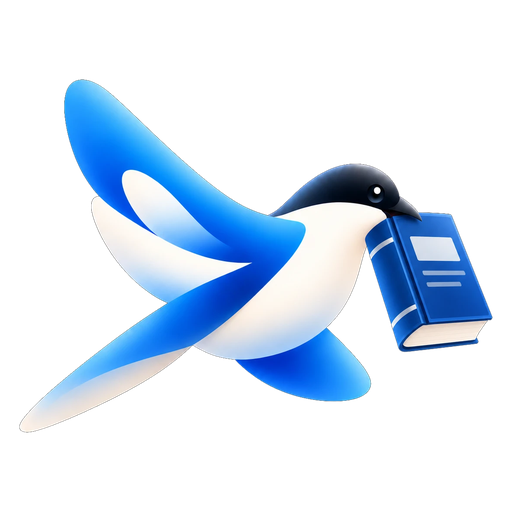
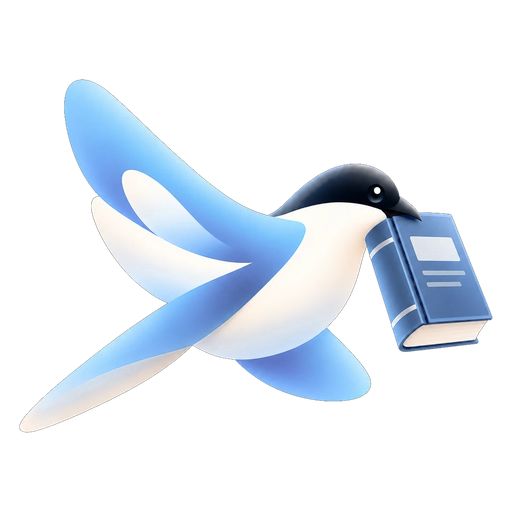
brand: 마크 파랑을 실제 물까치 색으로 낮춘다 (+ 보정 스크립트)
마크 날개가 전기 파랑에 가까웠다. 브랜드가 사용자의 물까치(Cyanopica cyanus)
사진에서 뽑아 둔 값은 하늘색 날개 #7ba9db · 짙은 날개 #5b96d4 인데, 정작
마크만 거기서 벗어나 있었다 — 게다가 지오글 것만 예전에 한 번 0.76배로
낮춰 둬서(채도 0.62) **같은 새인데 사이트마다 파랑이 달랐다**(0.62 / 0.83 / 0.87).

`scripts/brand/recolor-magpie.py` 로 셋을 **같은 목표 채도(0.46)**에 맞춘다.
예전에는 손으로 한 번씩 해서 위처럼 갈렸으므로 스크립트로 남긴다 —
한 번 돌리고 결과를 커밋하는 방식이다(scripts/kice/* 와 같다).

- 배율을 고정하지 않고 **파일마다 중앙값을 보고 푼다.** 이미 한 번 보정된
  파일과 원본 그대로인 파일이 같은 자리에 도착해야 한다.
- 색상(hue)은 안 건드린다 — 208~215° 가 이미 사진의 210° 와 맞다.
- **어두운 파랑은 건드리지 않는다**(밝기 0.30 아래). 브랜드 바탕색 #14171c 가
  살짝 파랑이라, 밝기를 안 보면 og.jpg 는 "파랑" 픽셀의 97.7%가 배경(밝기
  0.11)이고 날개는 1.5% 뿐이라 **배경이 배율을 정해 버린다.**
- 색상·밝기 경계는 부드럽게 가른다(딱 자르면 날개와 크림색 가슴 사이에 띠).
- **지구본은 빼고 보정한다** — 바다 파랑이 날개와 겹쳐 그대로 두면 바랜다.
- **작은 판은 512 에서 줄여 만든다.** 192·64 로 줄면 지구본의 초록이
  안티에일리어싱에 묻혀 안 찾혀서 그 파일만 지구본이 바랜다(실제로 512 는
  초록 107px 로 찾고 192·64 는 못 찾았다).

대상은 네 갈래 전부다 — 맨몸(브랜드) · 지구본(지오글) · 종이(리프린트OCR) ·
책(VDIC), 그리고 brand-site 의 webp·og.jpg 까지. 종이 마크는 #298ef0 →
#82bcf0. 바닥 브랜드 마크(nepica-64.png)는 세 저장소에서 다시 바이트까지
같다(2,078B · sha 79c5067914990d11).

공개 자산만 바뀌어 코드 변경은 없다(빌드에 영향 없음).

Claude-Session: https://claude.ai/code/session_01C5hwXkP7FNVyWqAUhqie3H

diff --git a/scripts/brand/recolor-magpie.py b/scripts/brand/recolor-magpie.py
@@ -1,0 +1,173 @@
+#!/usr/bin/env python3
+"""물까치 마크의 날개 파랑을 실제 물까치(Cyanopica cyanus) 색으로 낮춘다.
+
+**왜 필요한가.** 마크 원본의 날개가 전기 파랑에 가까웠다(대표색 #1878ec~#2b97f3,
+채도 0.69~0.77). 실제 물까치 날개는 **연하고 탁한 하늘색**이고, 이 저장소가
+사용자가 준 물까치 사진에서 뽑아 둔 값도 그렇다 — 하늘색 날개 #7ba9db ·
+짙은 날개 #5b96d4(css/main.css 의 팔레트 주석). 마크만 그 값에서 벗어나 있었다.
+
+**세 저장소에 흩어진 마크를 한 번에 맞추려고 스크립트로 남긴다.** 예전에는 손으로
+한 번씩 보정해서 지오글 것만 0.76배가 걸리고 나머지는 원본 그대로였다 — 그래서
+같은 새인데 사이트마다 파랑이 달랐다. 한 번 돌리고 결과를 커밋한다.
+
+**보정 방법**
+
+- HSV 로 바꿔 **파랑 계열 픽셀의 채도만** 배율로 낮춘다. 색상(hue)은 안 건드린다 —
+  지금 값(208~215°)이 이미 사진의 210° 와 맞다.
+- 배율은 파일마다 **중앙값을 보고 푼다**(TARGET_S / 지금 중앙 채도). 그래야 이미
+  한 번 보정된 파일과 원본 그대로인 파일이 **같은 자리에 도착한다** — 고정 배율을
+  쓰면 출발점이 다른 만큼 결과도 갈린다.
+- 색상 경계는 **부드럽게 가른다**(HUE_FEATHER). 딱 잘라내면 날개와 크림색 가슴이
+  만나는 자리에 띠가 생긴다.
+- **가장 어두운 파랑만 아주 조금 띄운다**(채도를 내리면 탁해 보이는 것을 막는다).
+- 알파는 한 픽셀도 안 건드린다.
+
+**부리에 문 지구본은 빼고 보정한다.** 바다의 파랑이 날개와 색상대가 겹쳐서 그대로
+두면 지구본까지 바랜다. 초록(대륙) 픽셀이 모인 자리를 지구본으로 보고 그 둘레를
+제외한다 — 지구본이 작을 수 있어 반지름의 1.6배로 넉넉히 잡는다.
+
+    python3 scripts/brand/recolor-magpie.py <파일…> [--globe] [--dry]
+"""
+import sys, math
+from PIL import Image
+import numpy as np
+
+TARGET_S = 0.46      # 사진 팔레트 #7ba9db(0.438)~#5b96d4(0.571) 사이, 연한 쪽에 붙인다
+HUE_LO, HUE_HI = 0.50, 0.72
+HUE_FEATHER = 0.04
+LIFT = 0.06          # 어두운 파랑만 살짝 띄운다
+# **어두운 파랑은 건드리지 않는다.** 브랜드 바탕색(#14171c)이 살짝 파랑이라
+# 밝기를 안 보면 og.jpg 의 배경까지 탈색된다 — 그 파일은 "파랑" 픽셀의 97.7%가
+# 밝기 0.11 인 배경이고 날개는 1.5% 뿐이라, 배율을 푸는 중앙값까지 배경이
+# 정한다. 마크 쪽은 날개의 92%가 0.35 위라 이 문턱에 걸리지 않는다.
+MIN_V, V_FEATHER = 0.30, 0.10
+
+
+def rgb_to_hsv(a):
+    r, g, b = a[..., 0], a[..., 1], a[..., 2]
+    mx, mn = a.max(-1), a.min(-1)
+    d = mx - mn
+    h = np.zeros_like(mx)
+    m = d > 1e-6
+    ri = m & (mx == r); gi = m & (mx == g) & ~ri; bi = m & (mx == b) & ~ri & ~gi
+    h[ri] = ((g - b)[ri] / d[ri]) % 6
+    h[gi] = ((b - r)[gi] / d[gi]) + 2
+    h[bi] = ((r - g)[bi] / d[bi]) + 4
+    h /= 6
+    s = np.where(mx > 1e-6, d / np.maximum(mx, 1e-6), 0)
+    return h, s, mx
+
+
+def hsv_to_rgb(h, s, v):
+    i = np.floor(h * 6) % 6
+    f = h * 6 - np.floor(h * 6)
+    p, q, t = v * (1 - s), v * (1 - f * s), v * (1 - (1 - f) * s)
+    out = np.zeros(h.shape + (3,), np.float32)
+    for k, (R, G, B) in enumerate([(v, t, p), (q, v, p), (p, v, t),
+                                   (p, q, v), (t, p, v), (v, p, q)]):
+        m = i == k
+        out[m] = np.stack([R, G, B], -1)[m]
+    return out
+
+
+def globe_mask(h, s, v, vis):
+    """초록(대륙)이 모인 자리를 지구본으로 보고 그 둘레를 돌려준다."""
+    green = vis & (h > 0.22) & (h < 0.45) & (s > 0.25) & (v > 0.15)
+    if green.sum() < 30:
+        return None
+    ys, xs = np.nonzero(green)
+    cy, cx = ys.mean(), xs.mean()
+    r = math.sqrt(((ys - cy) ** 2 + (xs - cx) ** 2).mean()) * 1.6 + 4
+    yy, xx = np.ogrid[:h.shape[0], :h.shape[1]]
+    return ((yy - cy) ** 2 + (xx - cx) ** 2) <= r * r, (cx, cy, r, int(green.sum()))
+
+
+def recolor(path, protect_globe=False, dry=False):
+    im = Image.open(path).convert("RGBA")
+    a = np.asarray(im).astype(np.float32) / 255.0
+    rgb, alpha = a[..., :3].copy(), a[..., 3]
+    vis = alpha > 0.15
+    h, s, v = rgb_to_hsv(rgb)
+
+    # 색상 경계를 부드럽게 — 딱 자르면 날개와 가슴 사이에 띠가 생긴다
+    w = np.clip((h - (HUE_LO - HUE_FEATHER)) / HUE_FEATHER, 0, 1) \
+        * np.clip(((HUE_HI + HUE_FEATHER) - h) / HUE_FEATHER, 0, 1)
+    w = np.where(vis, w, 0) * np.clip(s / 0.12, 0, 1) \
+        * np.clip((v - MIN_V) / V_FEATHER, 0, 1)
+
+    note = ""
+    if protect_globe:
+        got = globe_mask(h, s, v, vis)
+        if got:
+            gm, (cx, cy, r, n) = got
+            w = np.where(gm, 0, w)
+            note = f" 지구본 제외(중심 {cx:.0f},{cy:.0f} 반지름 {r:.0f}, 초록 {n}px)"
+        else:
+            note = " 지구본 못 찾음 — 제외 안 함"
+
+    strong = w > 0.5
+    if not strong.any():
+        print(f"  {path}: 파랑 없음 — 건너뜀"); return
+    med = float(np.median(s[strong]))
+    k = min(1.0, TARGET_S / med)
+
+    s2 = s * (1 - w * (1 - k))
+    # 채도를 내리면 탁해 보인다 — 어두운 파랑만 조금 띄운다
+    v2 = np.clip(v * (1 + LIFT * w * (1 - v)), 0, 1)
+    out = hsv_to_rgb(h, np.clip(s2, 0, 1), v2)
+    out = np.where(w[..., None] > 0, out, rgb)
+
+    med2 = float(np.median(s2[strong]))
+    px = rgb[strong]; px2 = out[strong]
+    rep = "#%02x%02x%02x" % tuple((np.median(px, 0) * 255).astype(int))
+    rep2 = "#%02x%02x%02x" % tuple((np.median(px2, 0) * 255).astype(int))
+    print(f"  {path}\n    채도 {med:.3f} → {med2:.3f} (×{k:.3f})  {rep} → {rep2}"
+          f"  파랑 {strong.sum()}px{note}")
+    if dry:
+        return
+    src = Image.open(path)
+    if src.mode == "RGB" or (src.format or "").upper() in ("JPEG", "JPG"):
+        # og.jpg 처럼 알파가 없는 파일은 RGB 로 되돌려 저장한다(JPEG 는 RGBA 를 못 받는다).
+        px = (np.clip(out, 0, 1) * 255 + 0.5).astype(np.uint8)
+        # 품질 86 · 크로마 서브샘플링 없음(4:4:4). 배경은 거의 평면이고 새가
+        # 작아서, 4:2:0 으로 줄이면 새 가장자리의 색이 뭉갠다. 92 는 파일이
+        # 원본의 2.25배로 불어서(15.5→35KB) 낮췄다 — 86 이면 22KB 다.
+        Image.fromarray(px, "RGB").save(path, quality=86, subsampling=0, optimize=True)
+    else:
+        res = np.concatenate([out, alpha[..., None]], -1)
+        Image.fromarray((np.clip(res, 0, 1) * 255 + 0.5).astype(np.uint8), "RGBA").save(path)
+
+
+def derive(master, outs):
+    """보정한 512 마스터에서 작은 판을 다시 만든다.
+
+    **작은 판을 따로 보정하면 안 된다.** 지구본은 192·64 로 줄면 초록(대륙)이
+    안티에일리어싱에 묻혀 사라져서 못 찾고, 그러면 그 파일에서만 지구본이
+    바랜다(실제로 그랬다: 512 는 초록 107px 로 찾고 192·64 는 못 찾음).
+    마스터에서 줄이면 보호가 그대로 따라 내려온다 — 줄이고 보정할 때 생기는
+    계단 현상을 피하려고 원래도 이렇게 만들었다.
+    """
+    src = Image.open(master).convert("RGBA")
+    for o in outs:
+        cur = Image.open(o)
+        w, h = cur.size
+        out = src.resize((w, h), Image.LANCZOS)
+        if cur.mode == "P":
+            # 팔레트로 돌려놔야 파일이 안 불어난다(원본 180색 · 2.1KB).
+            n = len(cur.getpalette()) // 3
+            out = out.quantize(colors=n, method=Image.FASTOCTREE)
+        out.save(o)
+        print(f"    {o}  ({w}x{h}, {cur.mode}) ← {master}")
+
+
+if __name__ == "__main__":
+    args = [x for x in sys.argv[1:] if not x.startswith("--")]
+    g = "--globe" in sys.argv
+    d = "--dry" in sys.argv
+    if "--derive" in sys.argv:
+        print(f"마스터에서 줄여 만들기: {args[0]}")
+        derive(args[0], args[1:])
+    else:
+        print(f"목표 채도 {TARGET_S}{' · 지구본 보호' if g else ''}{' · 시험만' if d else ''}")
+        for p in args:
+            recolor(p, protect_globe=g, dry=d)
